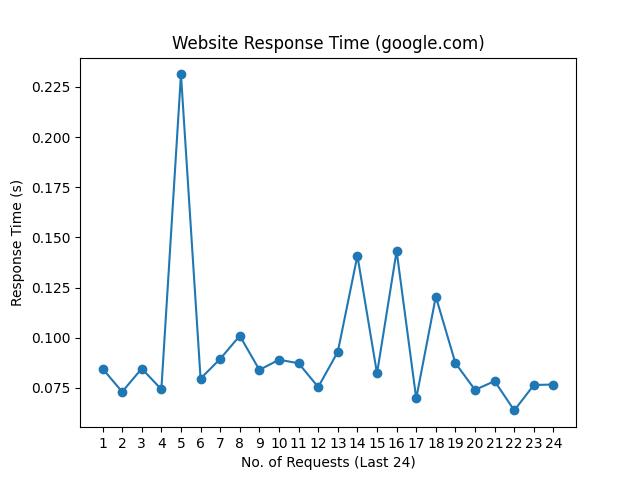
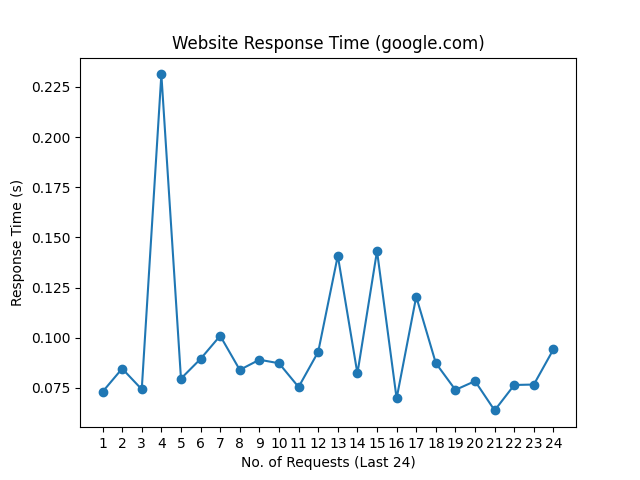
update README.md, history and graph

Changed region(s): [[0.1562, 0.125, 0.875, 0.875]]

diff --git a/README.md b/README.md
@@ -1,10 +1,10 @@
 # Web Monitoring
 
-Last Checked: 17/11/2024 08:22
+Last Checked: 18/11/2024 08:22
 
 | Website | Response Time (s) | Status | Avg Uptime (%) |
 |---------|-------------------|--------|----------------|
 | www.thiswebsiteisdown.net | 0 <br> <img src="graph/thiswebsiteisdown.net.png" alt="Graph" width="200" height="200">  | ❌ Down | 0.00 |
-| www.netflix.com | 0.904258 <br> <img src="graph/netflix.com.png" alt="Graph" width="200" height="200">  | ✅ Up | 100.00 |
-| www.google.com | 0.076623 <br> <img src="graph/google.com.png" alt="Graph" width="200" height="200">  | ✅ Up | 100.00 |
-| www.facebook.com | 0.519451 <br> <img src="graph/facebook.com.png" alt="Graph" width="200" height="200">  | ✅ Up | 100.00 |
+| www.netflix.com | 1.324927 <br> <img src="graph/netflix.com.png" alt="Graph" width="200" height="200">  | ✅ Up | 100.00 |
+| www.google.com | 0.094204 <br> <img src="graph/google.com.png" alt="Graph" width="200" height="200">  | ✅ Up | 100.00 |
+| www.facebook.com | 0.900145 <br> <img src="graph/facebook.com.png" alt="Graph" width="200" height="200">  | ✅ Up | 100.00 |
